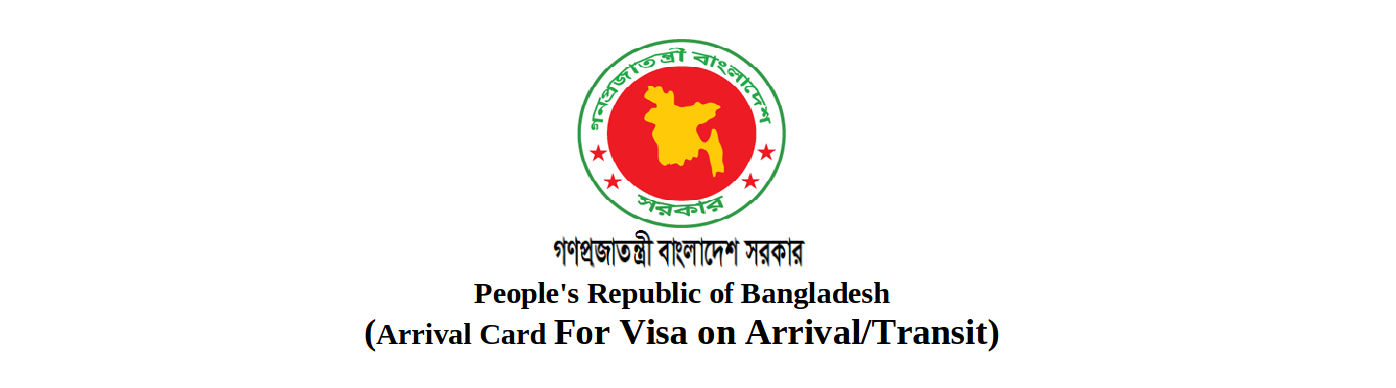
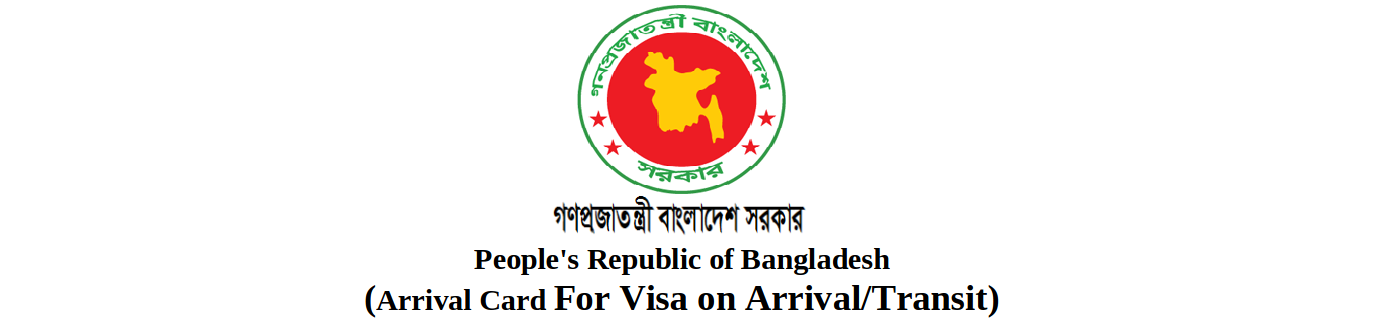
fixed passport field

Changed region(s): [[0.2464, 0.0, 0.7393, 0.9688]]

diff --git a/onArrCard.html b/onArrCard.html
@@ -67,7 +67,7 @@
             }
 
             .cusTwoWidth {
-                min-width: 20vh;
+                min-width: 25vh;
             }
 
             .cusThreeWidth {
@@ -126,7 +126,7 @@
     <table class="tableMid" id="element_to_print">
         <thead>
             <tr>
-                <th class="center-align"><img height="100dvh" src="assets/images/arrival.png" alt="mountain"></th>
+                <th><img src="assets/images/arrival.png" alt="mountain"></th>
             </tr>
         </thead>
         <tbody>
@@ -204,8 +204,8 @@
                     <table>
                         <tr class="">
                             <td class="">5.&nbspPassport Number: </td>
-                            <td>
-                                <input autocomplete="on" style="border:1px solid black;width: 20dvw;" type="text"
+                            <td class="viewInfoPass">
+                                <input autocomplete="on" style="border:1px solid black;" type="text"
                                     placeholder="Enter Passport Number">
                             </td>
                             <td class="blackBorder cusTwoWidth">6.&nbspDate of Expiry: </td>
@@ -235,8 +235,8 @@
                     <table>
                         <tr class="">
                             <td class="">7.&nbspFlight Number: </td>
-                            <td>
-                                <input autocomplete="on" style="border:1px solid black;width: 20dvw" type="text"
+                            <td class="viewInfoPass">
+                                <input autocomplete="on" style="border:1px solid black;" type="text"
                                     placeholder="Enter Flight Number">
                             </td>
                             <td class="blackBorder cusTwoWidth">8.&nbspDate of Arrival: </td>
@@ -333,7 +333,7 @@
                             <td class="">
                                 <table>
                                     <tr>
-                                        <td colspan="3" class="blackBorder" style="width: 400px; height: 10dvh;">
+                                        <td colspan="3" class="blackBorder" style="width: 400px; height: 50px;">
 
                                         </td>
                                     </tr>

diff --git a/css/style.css b/css/style.css
@@ -179,4 +179,9 @@ img {
   width: 100%;
   height: auto;
 }
-
+.viewInfoPass{
+  width: 40dvw;
+}
+.showDays{
+  width: 30dvw;
+}
